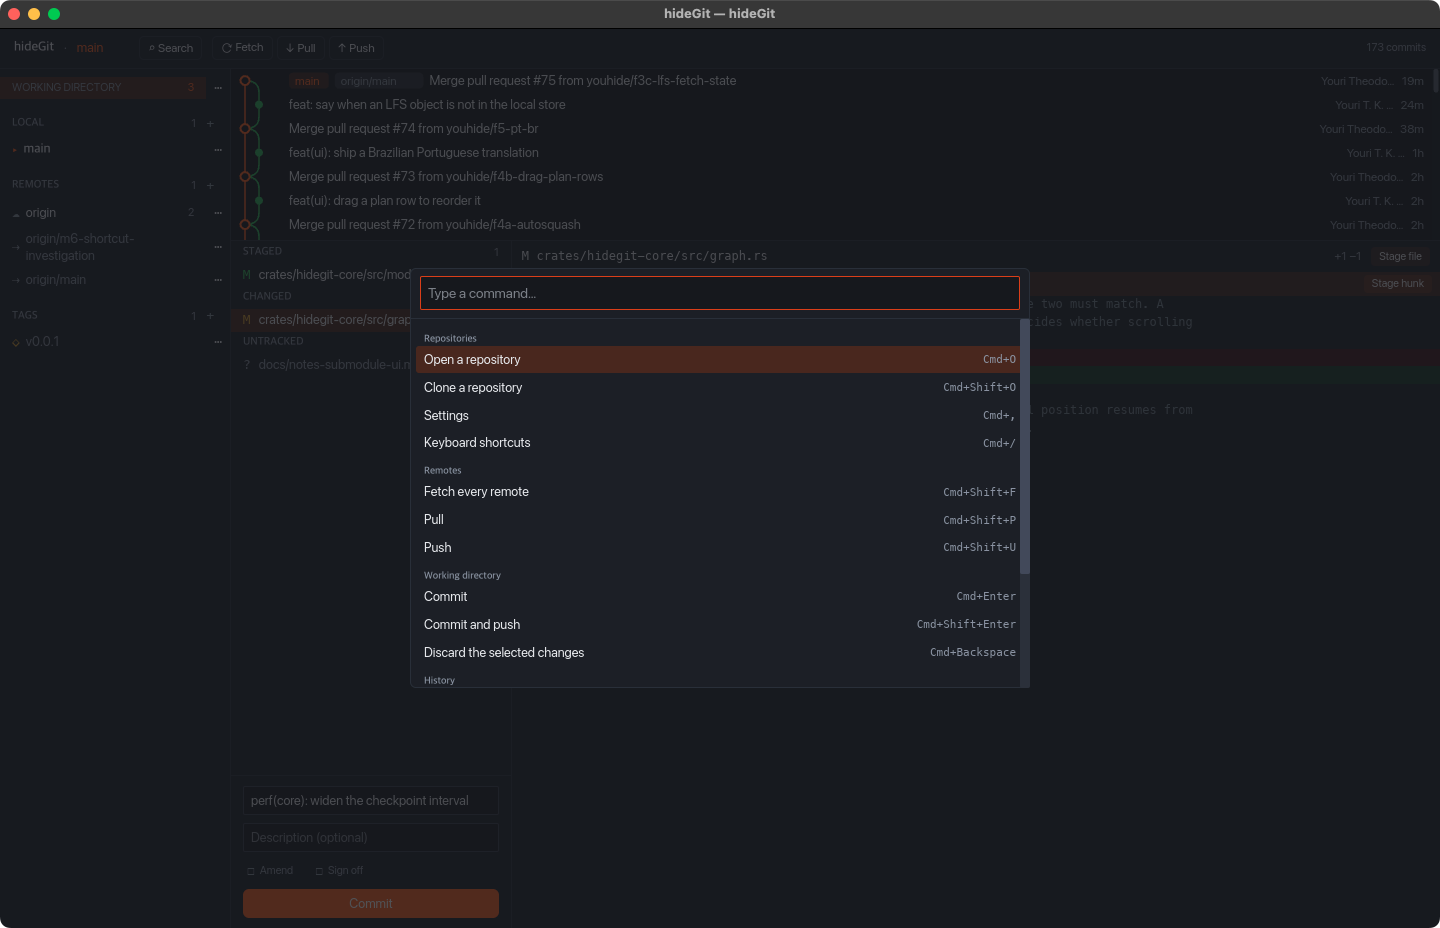
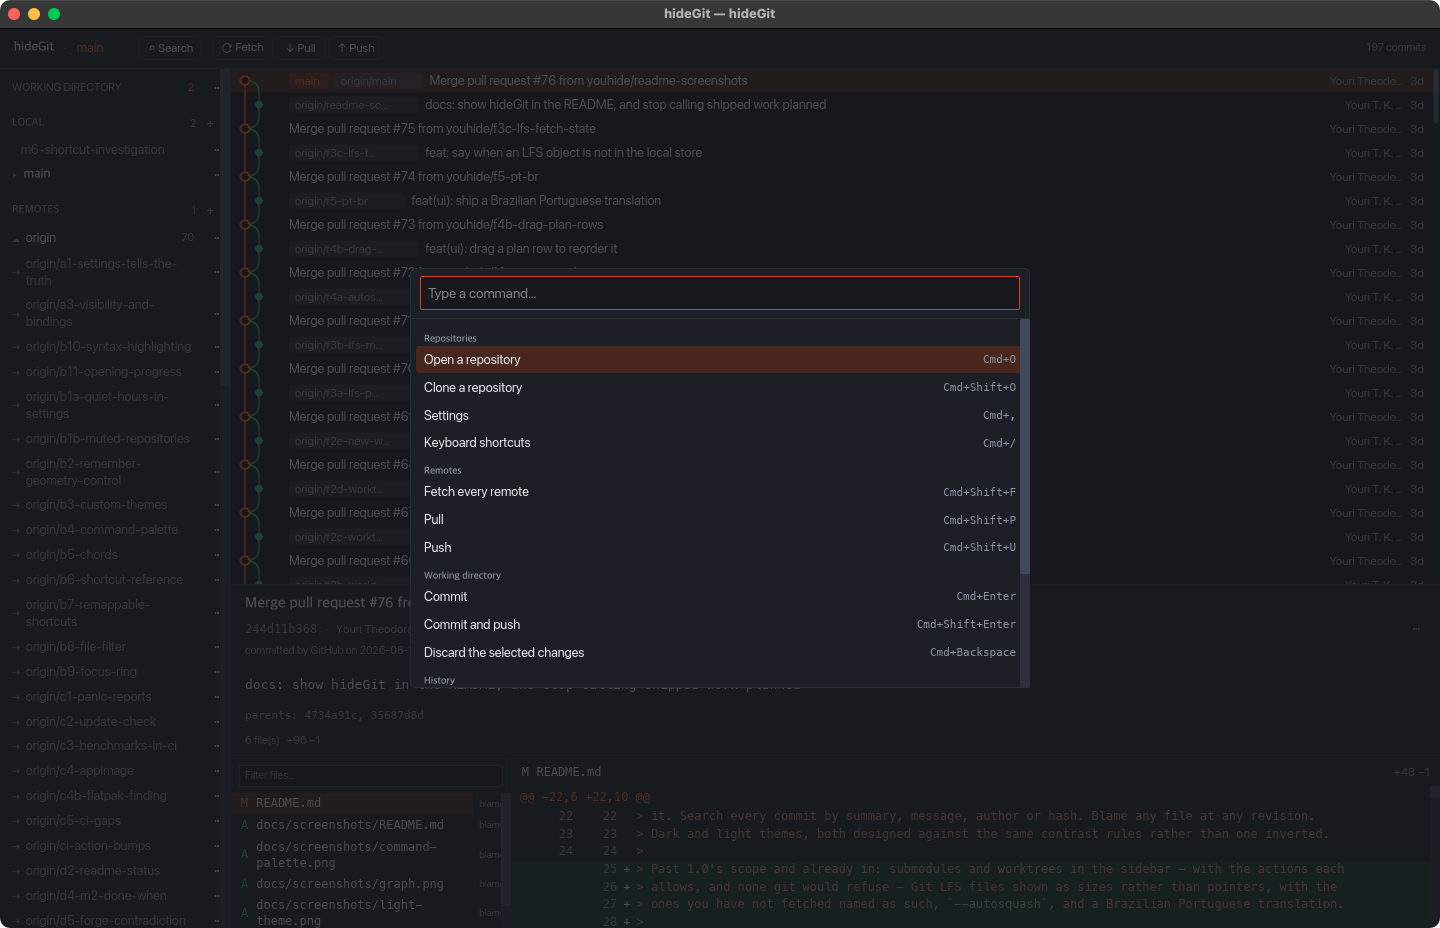
fix(ui): the graph gets the 60% of the window it always asked for
`UI_SPEC`'s first principle is that the graph is the application — "centre of
the window and the most pixels" — and `screen::repository` has asked for that
since M1 with `FillPortion(6)` against the detail pane's `FillPortion(4)`.

It never got it. Measured against the real layout pass, the graph was 145px and
the detail 581px in a 727px column: 20/80, not 60/40.

The cause is an asymmetry between the two panes. `ring` wraps its child in a
container to draw the focus border, and a container with no height is `Shrink`
in iced, so a `FillPortion` inside one never reaches the column that is meant to
divide the space. The graph's portion sat inside its ring; the detail's sat on a
container outside its own. That left the detail as the only child the column
could see asking for a share, so it took everything the shrunk graph did not
use. Moving the graph's portion outside its ring gives 436/291 — the ratio the
code has been requesting all along.

Pinned by a layout assertion rather than a text one, because no text assertion
could ever have caught this: the graph is a canvas and carries no text, so the
test measures the pane *below* it. `Target::Text` carries its `Rectangle` and
`Bounded::bounds` is public, so the detail's centred placeholder can be found
and its midpoint checked against the viewport. Sabotage puts the portion back
inside the ring and the test reports `midpoint is 477.44 of 768`.

Worth recording for the rest of this work: `Simulator::find` stops at the first
[…]

diff --git a/crates/hidegit-ui/src/app/tests/render.rs b/crates/hidegit-ui/src/app/tests/render.rs
@@ -729,3 +729,43 @@ fn a_detached_worktree_uses_gits_own_words_for_it() {
 
     shows(&app, "detached at aaaaaaa");
 }
+
+/// The height of the simulator's default viewport, which `render` uses.
+const VIEWPORT_HEIGHT: f32 = 768.0;
+
+#[test]
+fn the_graph_gets_most_of_the_window() {
+    // `UI_SPEC.md`'s first principle is that the graph is the application —
+    // "centre of window, most pixels" — and `screen::repository` asks for that
+    // with `FillPortion(6)` against the detail's `FillPortion(4)`.
+    //
+    // It did not get it. The graph's portion sat *inside* the focus ring, and
+    // `ring` wraps its child in a container with no height, which in iced is
+    // `Shrink`; a `FillPortion` inside one never reaches the column that is
+    // meant to divide the space. The detail's portion was on the outside, so
+    // it was the only child the column could see asking for a share, and it
+    // took everything left over: the graph rendered at 20% of the window.
+    //
+    // This is a layout assertion because nothing else could catch that. Every
+    // text assertion still passed while the primary surface was a fifth of the
+    // size it claims.
+    let app = app_with(3);
+    let mut ui = render(&app);
+
+    let placeholder = ui
+        .find("Select a commit to read its message and diff")
+        .expect("the detail pane is on screen");
+
+    // The detail pane is the lower 40% and centres its placeholder, so the
+    // midpoint of that text lands around 80% down the window. Measuring the
+    // text is what makes this possible at all: the graph is a canvas and
+    // carries no text to find.
+    let bounds = iced_test::selector::Bounded::bounds(&placeholder);
+    let middle = bounds.y + bounds.height / 2.0;
+
+    assert!(
+        middle > VIEWPORT_HEIGHT * 0.7,
+        "the detail pane's midpoint is {middle} of {VIEWPORT_HEIGHT}, so it is \
+         taking the space the graph asked for"
+    );
+}

diff --git a/crates/hidegit-ui/src/screen/repository.rs b/crates/hidegit-ui/src/screen/repository.rs
@@ -63,10 +63,19 @@ pub fn view<'a>(
             ring(Pane::Sidebar, sidebar::view(app, repo, index, palette)),
             vertical_rule(border).map(repo_message),
             column![
-                ring(
+                // The portion goes on this container rather than inside
+                // `graph_pane`, because `ring` wraps its child in a container
+                // of its own and a container with no height is `Shrink` — a
+                // `FillPortion` inside one never reaches the column that is
+                // meant to divide the space. The detail below already had it
+                // on the outside; this is the same shape, and the asymmetry is
+                // what made the graph 20% of the window instead of 60%.
+                container(ring(
                     Pane::Graph,
                     graph_pane(repo, palette, cache).map(repo_message)
-                ),
+                ))
+                .height(Length::FillPortion(6))
+                .width(Fill),
                 divider(border).map(repo_message),
                 container(ring(
                     Pane::Detail,
@@ -100,7 +109,7 @@ fn graph_pane<'a>(
 
         return container(text(message).size(13.0).color(palette.muted))
             .width(Fill)
-            .height(Length::FillPortion(6))
+            .height(Fill)
             .center(Fill)
             .into();
     }
@@ -128,7 +137,7 @@ fn graph_pane<'a>(
 
     container(canvas)
         .width(Fill)
-        .height(Length::FillPortion(6))
+        .height(Fill)
         .style(move |_| container::Style {
             background: Some(background.into()),
             ..container::Style::default()

diff --git a/docs/UI_SPEC.md b/docs/UI_SPEC.md
@@ -22,6 +22,14 @@ Layout sketches are structural, not visual design.
 
 1. **The graph is the application.** History is what people reason about, so it gets the centre of
    the window and the most pixels. Everything else is support.
+
+   Concretely: **six parts graph to four parts detail**, and that ratio is now asserted rather than
+   merely asked for. It was asked for from M1 and never delivered — the graph rendered at 20% of the
+   window because its `FillPortion` sat *inside* the focus ring, and `ring` wraps its child in a
+   container with no height, which in iced is `Shrink`. A portion inside a `Shrink` never reaches
+   the column meant to divide the space, so the detail pane — whose portion was on the outside — was
+   the only child asking for a share and took everything left over. Nothing caught it for five
+   milestones because every test asserted *text*, and this is a question about *pixels*.
 2. **Git's own vocabulary.** `stash`, `rebase`, `ref`, `HEAD`. Renaming Git concepts teaches people
    something they cannot use anywhere else.
 3. **Never lie about state.** A repository mid-rebase does not offer "commit" as though nothing is
